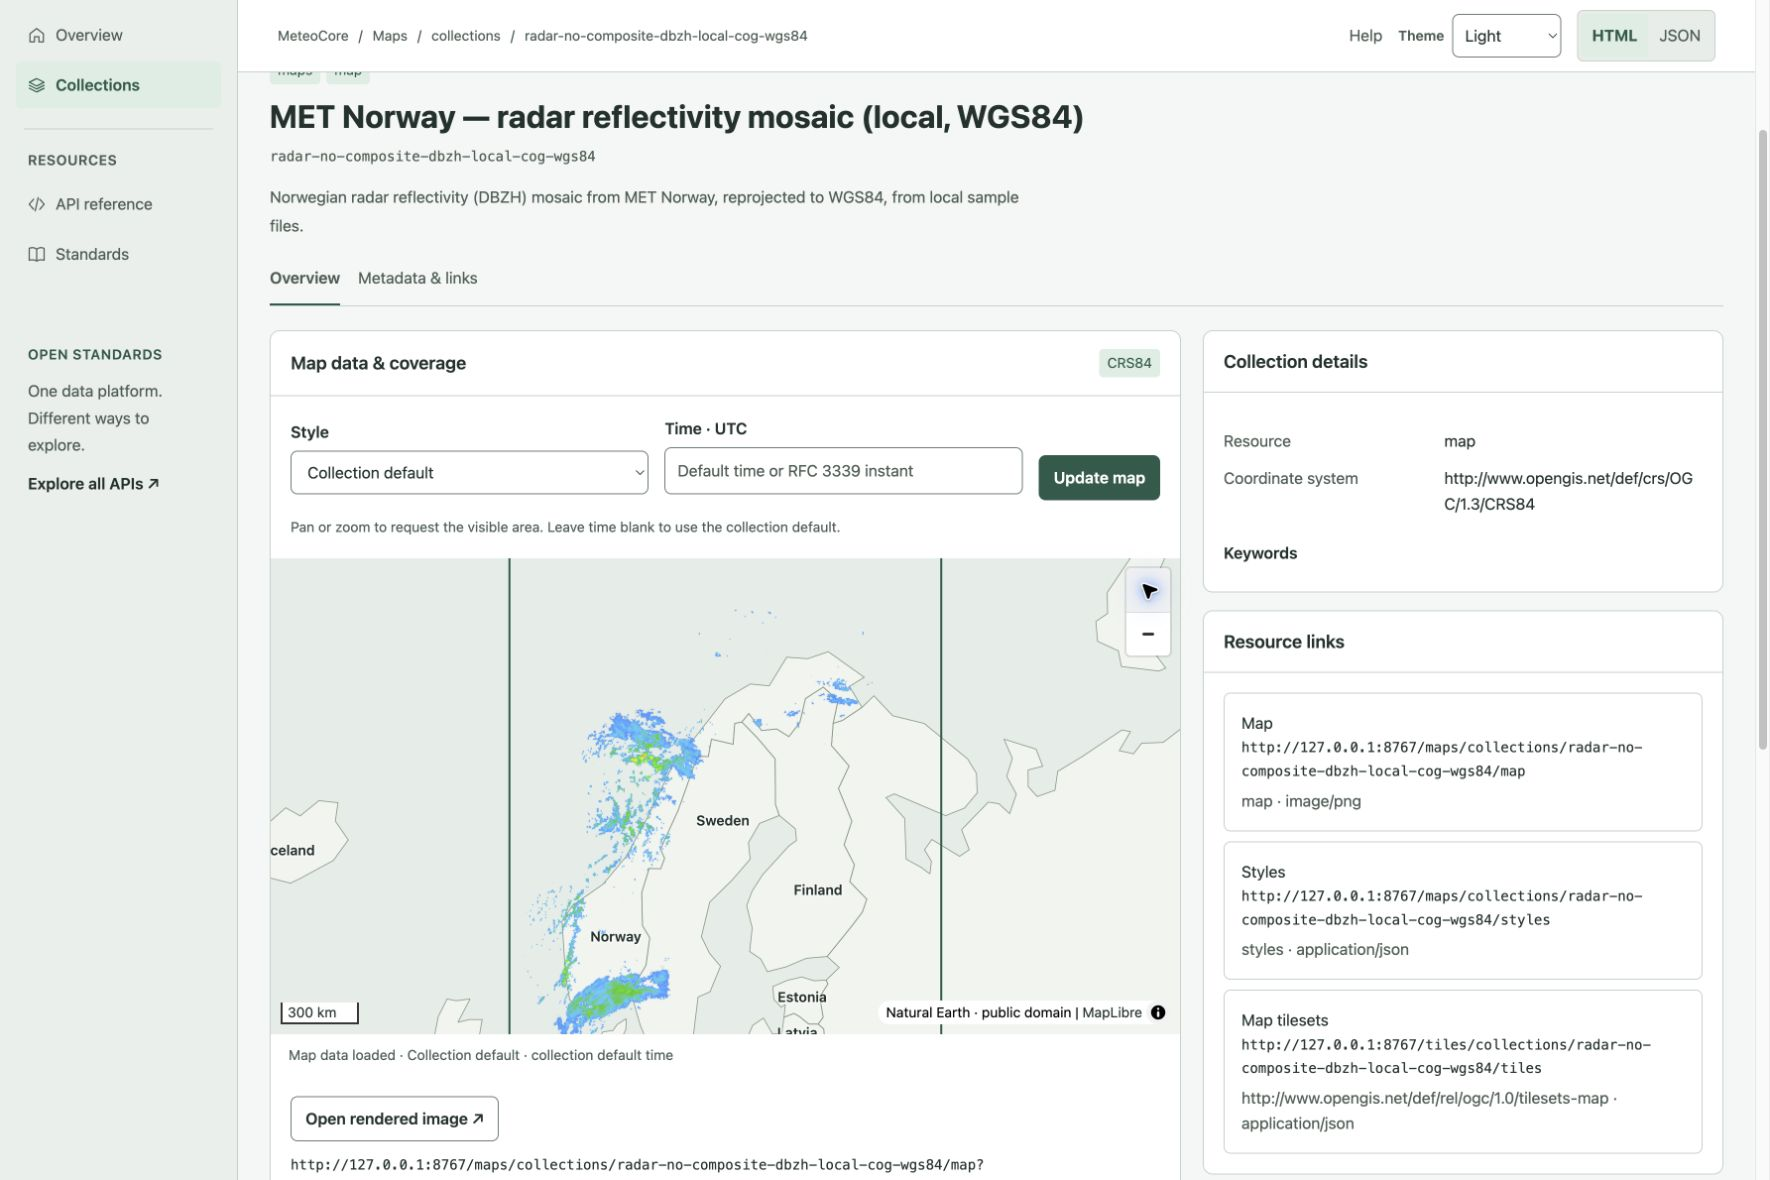
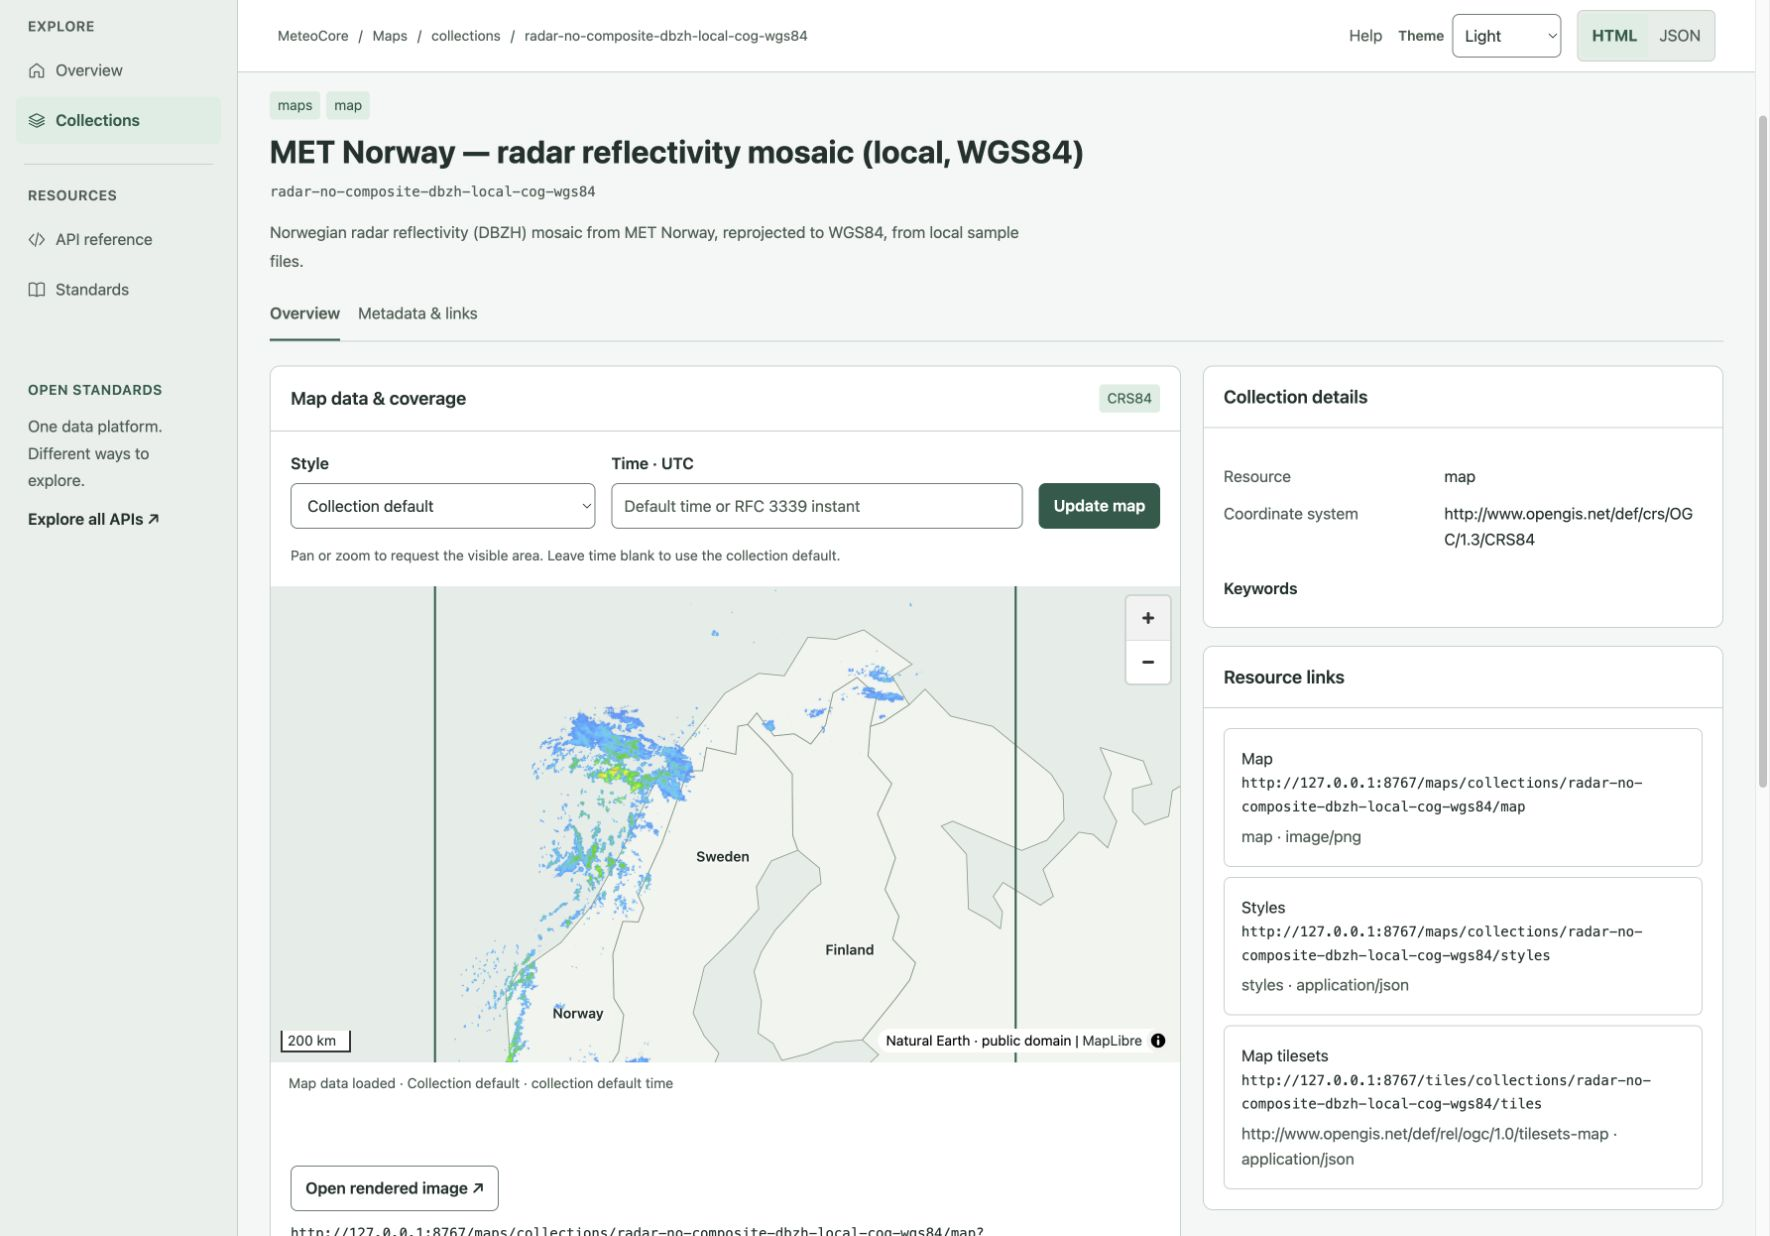
Keep map refreshes stable and align preview controls

diff --git a/crates/api-common/src/workbench/map.js b/crates/api-common/src/workbench/map.js
@@ -54,16 +54,25 @@
       const time = document.getElementById('map-time');
       const link = document.getElementById('map-image-link');
       const requestText = document.getElementById('map-image-request');
-      const canvas = document.createElement('canvas');
-      let pending, generation = 0, timer;
+      let pending, generation = 0, timer, activeId, staged;
+      function discardStaged() {
+        if (!staged) return;
+        map.off('render',staged.onRender);
+        if (map.getLayer(staged.id)) map.removeLayer(staged.id);
+        if (map.getSource(staged.id)) map.removeSource(staged.id);
+        staged = undefined;
+      }
+      function disableImageLink() {
+        link.removeAttribute('href'); link.setAttribute('aria-disabled','true');
+      }
       async function render() {
         if (!element.clientWidth || !element.clientHeight) return;
         const current = ++generation;
+        discardStaged();
         pending?.abort(); pending = new AbortController();
         const controller = pending;
         const timeout = setTimeout(() => controller.abort(), 15000);
-        link.hidden = true;
-        if (map.getLayer('map-data')) map.setLayoutProperty('map-data','visibility','none');
+        let requestedUrl;
         try {
           const selectedStyle = style.selectedOptions[0].textContent;
           const selectedTime = time.value.trim();
@@ -83,33 +92,47 @@
           url.searchParams.set('width',width); url.searchParams.set('height',height);
           url.searchParams.set('f','image/png'); url.searchParams.set('transparent','true');
           if (selectedTime) url.searchParams.set('datetime',selectedTime); else url.searchParams.delete('datetime');
-          requestText.textContent = url.href;
-          status.textContent = 'Loading map data…';
+          requestedUrl = url.href;
+          if (!activeId) requestText.textContent = requestedUrl;
+          status.textContent = activeId ? 'Updating map data… Showing the previous image until ready.' : 'Loading map data…';
           const response = await fetch(url,{signal:controller.signal});
           if (!response.ok) throw new Error(`Map request failed (HTTP ${response.status}). Adjust the time or retry.`);
           if (!response.headers.get('content-type')?.startsWith('image/')) throw new Error('Map endpoint did not return an image.');
           const bitmap = await createImageBitmap(await response.blob());
           if (current !== generation || controller.signal.aborted) { bitmap.close(); return; }
+          const canvas = document.createElement('canvas');
           canvas.width = bitmap.width; canvas.height = bitmap.height;
           canvas.getContext('2d').drawImage(bitmap,0,0); bitmap.close();
           const coordinates = [[west,north],[east,north],[east,south],[west,south]];
-          // Replace the static canvas source so every response uploads fresh
-          // pixels, including same-size images after time/style changes.
-          if (map.getLayer('map-data')) map.removeLayer('map-data');
-          if (map.getSource('map-data')) map.removeSource('map-data');
-          map.addSource('map-data',{type:'canvas',canvas,coordinates,animate:false});
-          map.addLayer({id:'map-data',type:'raster',source:'map-data',paint:{'raster-opacity':0.85,'raster-fade-duration':0}},'outlines');
-          map.triggerRepaint();
-          link.href = url.href; link.hidden = false;
-          status.textContent = `Map data loaded · ${selectedStyle} · ${selectedTime || 'collection default time'}`;
+          // Stage the replacement invisibly. Keep the displayed image and
+          // request link until MapLibre has uploaded the new source's pixels.
+          const nextId = activeId === 'map-data-0' ? 'map-data-1' : 'map-data-0';
+          const onRender = () => {
+            if (current !== generation || !map.isSourceLoaded(nextId)) return;
+            map.off('render',onRender);
+            map.setPaintProperty(nextId,'raster-opacity',0.85);
+            if (activeId) { map.removeLayer(activeId); map.removeSource(activeId); }
+            activeId = nextId; staged = undefined;
+            link.href = requestedUrl; link.removeAttribute('aria-disabled');
+            requestText.textContent = requestedUrl;
+            status.textContent = `Map data loaded · ${selectedStyle} · ${selectedTime || 'collection default time'}`;
+          };
+          staged = {id:nextId,onRender};
+          map.addSource(nextId,{type:'canvas',canvas,coordinates,animate:false});
+          map.addLayer({id:nextId,type:'raster',source:nextId,paint:{'raster-opacity':0,'raster-fade-duration':0}},'outlines');
+          map.on('render',onRender); map.triggerRepaint();
         } catch (error) {
           if (current !== generation) return;
+          discardStaged();
+          if (activeId) { map.removeLayer(activeId); map.removeSource(activeId); activeId = undefined; }
+          disableImageLink();
+          if (requestedUrl) requestText.textContent = requestedUrl;
           status.textContent = error.name === 'AbortError' ? 'Map request timed out. Use Update map to retry.' : (error.message || 'Map data unavailable. Use Update map to retry.');
         } finally { clearTimeout(timeout); }
       }
       function schedule() {
         // Invalidate immediately so an old response cannot replace a new view.
-        ++generation; pending?.abort(); clearTimeout(timer);
+        ++generation; pending?.abort(); discardStaged(); clearTimeout(timer);
         timer = setTimeout(render,300);
       }
       form.addEventListener('submit',event => { event.preventDefault(); clearTimeout(timer); render(); });

diff --git a/crates/api-common/src/workbench/style.css b/crates/api-common/src/workbench/style.css
@@ -2572,7 +2572,19 @@ a {
 
 .properties tbody th{border-bottom:1px solid var(--line)}.item-query .equal-fields label{margin-bottom:0}
 
-.js .map-controls.enhanced{display:flex!important}.map-controls{padding:20px;gap:16px;align-items:end;flex-wrap:wrap}.map-controls label{flex:1;min-width:180px}.map-controls select,.map-controls input{display:block;width:100%;margin-top:6px}.map-controls p{flex-basis:100%;font-size:14px;color:var(--muted);margin:0}.map-request code{display:block;margin-top:12px;overflow-wrap:anywhere;font-size:14px}
+.map-request code{display:block;margin-top:12px;font-size:14px}
 
 #feature-map[aria-label="Collection map data"]{height:480px}@media(max-width:800px){#feature-map[aria-label="Collection map data"]{height:380px}}
-.detail-layout>div,.detail-layout>aside{min-width:0}.map-controls label{max-width:100%}
+.detail-layout>div,.detail-layout>aside{min-width:0}
+
+/* Keep map refreshes inside a stable panel: no page reflow during pan/zoom. */
+#feature-map[aria-label="Collection map data"]+#map-status{height:6em;overflow:auto;margin:0}
+.map-request code{height:4.5em;line-height:1.5;overflow:auto;overflow-wrap:anywhere}
+#map-image-link[aria-disabled="true"]{cursor:default;color:var(--muted)}
+.map-controls{padding:20px}
+.js .map-controls.enhanced{display:grid!important;grid-template-columns:minmax(0,1fr) minmax(0,1.35fr) auto;align-items:end;gap:16px}
+.map-controls label{display:flex;flex-direction:column;gap:8px;min-width:0;max-width:none;margin:0;line-height:24px}
+.map-controls select,.map-controls input{display:block;width:100%;box-sizing:border-box;height:46px;min-height:46px;margin:0;font-size:16px;line-height:24px}
+.map-controls>.btn{box-sizing:border-box;height:46px;min-height:46px;margin:0;white-space:nowrap}
+.map-controls>p{grid-column:1/-1;font-size:14px;color:var(--muted);margin:0}
+@media(max-width:1000px){.js .map-controls.enhanced{grid-template-columns:minmax(0,1fr)}.map-controls>.btn{justify-self:start}}

diff --git a/crates/api-common/src/workbench.rs b/crates/api-common/src/workbench.rs
@@ -415,7 +415,7 @@ pub fn map_html(base: &str, features: &Value, quicklook: bool) -> String {
         "Feature geometry map"
     };
     let request_link = if raster.is_some() {
-        "<div class=\"map-request panel-body enhanced\"><a id=\"map-image-link\" class=\"btn small\" hidden>Open rendered image ↗</a><code id=\"map-image-request\"></code></div>"
+        "<div class=\"map-request panel-body enhanced\"><a id=\"map-image-link\" class=\"btn small\" aria-disabled=\"true\">Open rendered image ↗</a><code id=\"map-image-request\"></code></div>"
     } else {
         ""
     };

diff --git a/docs/design/api-workbench/README.md b/docs/design/api-workbench/README.md
@@ -102,3 +102,12 @@ Validated the local GeoTIFF radar fixture: zoom changes the bbox/image request;
 style changes replace the pixels; explicit time is retained in the image URL;
 invalid time returns a visible HTTP 400 message and hides stale imagery. Recovery,
 light/dark themes and 390px layouts were checked in Chrome.
+
+Map refreshes keep the current image visible until the replacement source is
+ready, then swap it. The status, image link and URL occupy stable space so the
+page below the map does not jump. Style/time fields and the update button have
+equal heights and align at the bottom; narrow screens stack the controls.
+
+Browser regression check: desktop and 390px page height and coverage-section
+position stayed identical before, during and after map refresh. All three map
+controls measure 46px high; desktop controls share the same bottom edge.

diff --git a/crates/api-common/README.md b/crates/api-common/README.md
@@ -145,3 +145,8 @@ requests are debounced and superseded fetches are cancelled. Loading/errors are
 explicit; failed requests hide the previous image. The rendered-image URL is
 separate from the collection metadata JSON link. No rendering occurs while
 assembling metadata on the server.
+
+Map refreshes retain the displayed image until its replacement has loaded in
+MapLibre, then swap the layers. Status, image-link and request-URL areas keep
+fixed dimensions to avoid shifting content during pan/zoom. Map controls use
+equal-height fields and an aligned action button, stacking on narrow screens.

diff --git a/docs/ogc-api-common-matrix.md b/docs/ogc-api-common-matrix.md
@@ -311,3 +311,6 @@ HTML catalog headings use the shared request bar for URL/cURL copy actions.
 Maps HTML collection overviews additionally preview actual data using the
 advertised map/style endpoints. This is API-specific data access; the page’s
 JSON representation remains collection metadata and Common discovery is unchanged.
+
+Map previews update images within a stable HTML layout; pan/zoom does not
+navigate or reload the collection document.
